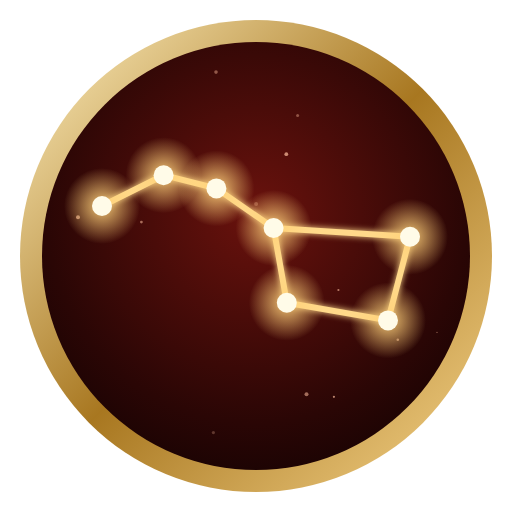
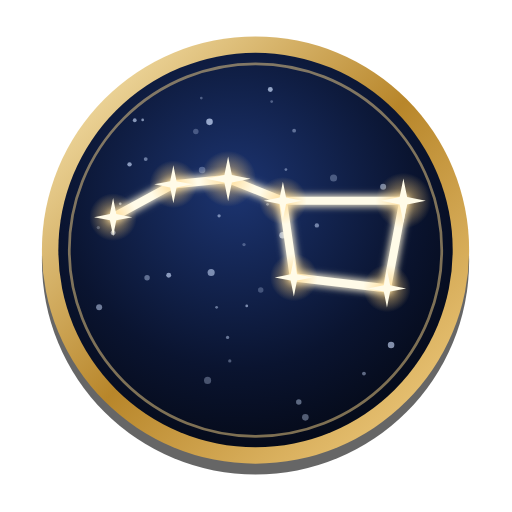
v0.47.1 : retour à l'icône d'origine (médaillon bleu)
Claude-Session: https://claude.ai/code/session_014s4g83MbSFVcN4jjfkWf8U

diff --git a/public/index.html b/public/index.html
@@ -3389,7 +3389,7 @@ Object.assign(UI.fr,{"stBtn": "Histoire", "stTitle": "Mode histoire", "stArc1": 
 Object.assign(UI.en,{"stBtn": "Story", "stTitle": "Story mode", "stArc1": "Arc 1: KING", "stLead": "Follow Kenshiro through the ravaged world, chapter after chapter. Each chapter has 3 stars to earn.", "stLocked": "Clear the previous chapter", "stPlay": "Fight", "stNext": "Next chapter", "stBackList": "Chapters", "stRetry": "Retry", "stObj": "Objectives", "stUnlock": "Unlocks", "stUnlockNote": "(from version 1.0)", "stYou": "You play", "stFoe": "Opponent", "stWave": "Wave {a}/{b}", "stWaveNext": "Next wave", "stWin": "Chapter cleared!", "stLose": "Defeat…", "stStars": "{n} star(s)", "stJoined": "Unlocked at 1.0: {who}", "stFat": "His Lights do nothing to him.", "stTrap": "An Ambush trap is already set against you.", "stArcDone": "Arc complete! More coming soon.", "stHow": "Story: 20 pts the first time a chapter is cleared, +10 pts per new star.", "w_story": "Story mode", "ach_story1": "The legend begins", "achd_story1": "Clear arc 1 of story mode", "ach_story27": "Seven stars… and more", "achd_story27": "Earn all 27 stars of arc 1", "st_t_king-0": "Prologue: the seven scars", "st_i_king-0": "One year before it all. Shin, of Nanto Koshūken, has sworn to tear Yuria away from Kenshiro. Tonight he takes the woman, and leaves him seven holes in his chest to remember.", "st_o_king-0": "\"I am Shin. Remember that name.\" Kenshiro lies in the dust, branded with seven scars shaped like the Big Dipper. He will survive. And he will come back.", "st_t_king-1": "The besieged village", "st_i_king-1": "A man collapses from hunger at the edge of a village. In a cell he meets little Lin and a thieving kid, Bat. Outside, Zeed's gang rides in to loot everything.", "st_o_king-1": "The raiders don't understand what's happening. \"You are already dead.\" Their bodies burst one after another. Zeed will want revenge.", "st_t_king-2": "Zeed", "st_i_king-2": "Zeed and his biker horde surround the village. He demands the water and the women. Kenshiro walks out alone to meet them, Lin and Bat hiding behind him.", "st_o_king-2": "Zeed wanted to strike first. His skull didn't hold. Lin finds her voice again, and Bat decides to follow this strange man. The journey begins.", "st_t_king-3": "Spade, the spearman", "st_i_king-3": "In the ruins of a city, men wear a badge: a spade. They are KING's soldiers. Their leader, Spade, amuses himself shooting at fugitives.", "st_o_king-3": "Spade swallowed his own bolt. Before dying, a name: KING. Kenshiro clenches his fist. The man with seven scars already knows who hides behind it.", "st_t_king-4": "Diamond and the captive village", "st_i_king-4": "A whole village is enslaved by Diamond, another of KING's suits. His guards first, then the master himself. Two fights in a row, no rest.", "st_o_king-4": "The last diamond has shattered. The villagers raise their heads. There is talk of a city to the south, Southern Cross, where KING keeps a woman prisoner.", "st_t_king-5": "Club", "st_i_king-5": "Club has prepared the ground: raiders hide everywhere, ready to fall on anyone who switches fighters. Fox, the sly one, prowls with him.", "st_o_king-5": "Club thought he had Kenshiro caught in his web. The threads snapped. Fox tried to flee into the desert. He didn't get far.", "st_t_king-6": "Heart, the colossus", "st_i_king-6": "Heart, KING's heart, is a mountain of fat. Light blows sink into his flesh without hurting him at all. And when he sees his own blood, he goes mad.", "st_o_king-6": "Fat protects from everything… except pressure points. Heart swells, swells again, and bursts. Southern Cross isn't far now.", "st_t_king-7": "Joker, the messenger", "st_i_king-7": "Joker, Shin's right-hand man, plays with his razor cards and vanishes before anyone can touch him. He has come to see what the man with seven scars can do.", "st_o_king-7": "\"I'd rather die than be your messenger.\" Joker won't go warn Shin. Kenshiro will do it himself.", "st_t_king-8": "Southern Cross: Shin", "st_i_king-8": "At the top of his city, Shin waits. He built it all for her, for Yuria. A year after the night of the seven scars, the two men face each other again.", "st_o_king-8": "Shin has lost. He won't let Kenshiro take his life: he throws himself from the top of his palace. Yuria was already gone. Kenshiro's journey has only just begun…", "sto_win": "Win the fight", "sto_rounds": "Win in {n} turns or fewer", "sto_hits": "Land {n} hits on the opponent", "sto_lost": "Lose {n} HP or fewer", "sto_lastUlt": "Finish with an ultimate", "sto_keep": "Keep more than {n}% of your HP", "sto_noRelay": "Make no tag", "sto_noTrap": "Trigger no enemy trap", "sto_noJoker": "Never let Joker draw", "sto_firstKo": "KO {who} first", "sto_killLvl": "Finish {who} with {lvl}", "stLvl2": "a Heavy", "stLvlU": "an ultimate"});
 Object.assign(UI.it,{"stBtn": "Storia", "stTitle": "Modalità storia", "stArc1": "Arco 1: KING", "stLead": "Segui Kenshiro nel mondo devastato, capitolo dopo capitolo. Ogni capitolo ha 3 stelle da guadagnare.", "stLocked": "Completa il capitolo precedente", "stPlay": "Combatti", "stNext": "Capitolo successivo", "stBackList": "Capitoli", "stRetry": "Riprova", "stObj": "Obiettivi", "stUnlock": "Sblocca", "stUnlockNote": "(dalla versione 1.0)", "stYou": "Giochi", "stFoe": "Avversario", "stWave": "Ondata {a}/{b}", "stWaveNext": "Ondata successiva", "stWin": "Capitolo completato!", "stLose": "Sconfitta…", "stStars": "{n} stella/e", "stJoined": "Sbloccato alla 1.0: {who}", "stFat": "I suoi Leggeri non gli fanno nulla.", "stTrap": "Una trappola Imboscata è già piazzata contro di te.", "stArcDone": "Arco completato! Il seguito arriva presto.", "stHow": "Storia: 20 pt la prima volta che si completa un capitolo, +10 pt per ogni nuova stella.", "w_story": "Modalità storia", "ach_story1": "La leggenda comincia", "achd_story1": "Completa l'arco 1 della modalità storia", "ach_story27": "Sette stelle… e oltre", "achd_story27": "Ottieni le 27 stelle dell'arco 1", "st_t_king-0": "Prologo: le sette cicatrici", "st_i_king-0": "Un anno prima di tutto. Shin, del Nanto Koshūken, ha giurato di strappare Yuria a Kenshiro. Stanotte si prende la donna, e gli lascia sette buchi nel petto come ricordo.", "st_o_king-0": "«Io sono Shin. Ricorda questo nome.» Kenshiro giace nella polvere, marchiato da sette cicatrici a forma di Orsa Maggiore. Sopravvivrà. E tornerà.", "st_t_king-1": "Il villaggio assediato", "st_i_king-1": "Un uomo crolla per la fame all'ingresso di un villaggio. In una cella incontra la piccola Lin e un ragazzino ladro, Bat. Fuori arriva la banda di Zeed per saccheggiare tutto.", "st_o_king-1": "I predoni non capiscono cosa succede. «Sei già morto.» I loro corpi esplodono uno dopo l'altro. Zeed vorrà vendetta.", "st_t_king-2": "Zeed", "st_i_king-2": "Zeed e la sua orda in moto circondano il villaggio. Pretende l'acqua e le donne. Kenshiro esce da solo ad affrontarli, con Lin e Bat nascosti dietro di lui.", "st_o_king-2": "Zeed voleva colpire per primo. Il suo cranio non ha retto. Lin ritrova la voce, e Bat decide di seguire quello strano uomo. Il viaggio comincia.", "st_t_king-3": "Spade, il lanciere", "st_i_king-3": "Tra le rovine di una città, degli uomini portano un'insegna: una picca. Sono i soldati di KING. Il loro capo, Spade, si diverte a tirare sui fuggiaschi.", "st_o_king-3": "Spade ha ingoiato il suo stesso dardo. Prima di morire, un nome: KING. Kenshiro stringe il pugno. L'uomo dalle sette cicatrici sa già chi si nasconde dietro.", "st_t_king-4": "Diamond e il villaggio prigioniero", "st_i_king-4": "Un intero villaggio è ridotto in schiavitù da Diamond, un altro seme di KING. Prima le sue guardie, poi il padrone. Due combattimenti di fila, senza riposo.", "st_o_king-4": "L'ultimo diamante si è spezzato. Gli abitanti rialzano la testa. Si parla di una città a sud, Southern Cross, dove KING tiene prigioniera una donna.", "st_t_king-5": "Club", "st_i_king-5": "Club ha preparato il terreno: predoni nascosti ovunque, pronti a piombare su chiunque cambi combattente. Fox, la volpe, si aggira con lui.", "st_o_king-5": "Club credeva di avere Kenshiro nella sua rete. I fili si sono spezzati. Fox ha cercato di fuggire nel deserto. Non è andato lontano.", "st_t_king-6": "Heart, il colosso", "st_i_king-6": "Heart, il cuore di KING, è una montagna di grasso. I colpi leggeri affondano nella sua carne senza fargli alcun male. E quando vede il suo sangue, impazzisce.", "st_o_king-6": "Il grasso protegge da tutto… tranne che dai punti vitali. Heart si gonfia, si gonfia ancora, ed esplode. Southern Cross non è più lontana.", "st_t_king-7": "Joker, il messaggero", "st_i_king-7": "Joker, l'uomo di fiducia di Shin, gioca con le sue carte taglienti e sparisce prima che lo si possa toccare. È venuto a vedere di cosa è capace l'uomo dalle sette cicatrici.", "st_o_king-7": "«Preferisco morire che farti da messaggero.» Joker non andrà ad avvertire Shin. Ci penserà Kenshiro stesso.", "st_t_king-8": "Southern Cross: Shin", "st_i_king-8": "In cima alla sua città, Shin aspetta. Ha costruito tutto per lei, per Yuria. Un anno dopo la notte delle sette cicatrici, i due uomini si affrontano di nuovo.", "st_o_king-8": "Shin ha perso. Non lascerà che Kenshiro gli dia la morte: si getta dalla cima del suo palazzo. Yuria non c'era più. Il viaggio di Kenshiro è appena cominciato…", "sto_win": "Vinci il combattimento", "sto_rounds": "Vinci in {n} turni o meno", "sto_hits": "Colpisci l'avversario {n} volte", "sto_lost": "Perdi al massimo {n} PV", "sto_lastUlt": "Finisci con una mossa finale", "sto_keep": "Conserva più del {n}% dei tuoi PV", "sto_noRelay": "Non fare nessun cambio", "sto_noTrap": "Non far scattare nessuna trappola nemica", "sto_noJoker": "Non lasciare mai pescare Joker", "sto_firstKo": "Metti KO {who} per primo", "sto_killLvl": "Finisci {who} con {lvl}", "stLvl2": "un Pesante", "stLvlU": "una mossa finale"});
 const CHANGELOG=[
- {v:"0.47.0",d:"2026-10-05",fr:["Nouvelle icône du jeu : la Grande Ourse dans un médaillon doré"],en:["New game icon: the Big Dipper in a golden medallion"],it:["Nuova icona del gioco: il Grande Carro in un medaglione dorato"],ja:["新しいゲームアイコン：金のメダリオンに北斗七星"]},
+ {v:"0.47.1",d:"2026-10-05",fr:["Retour de l'icône d'origine (médaillon bleu)"],en:["Original icon is back (blue medallion)"],it:["Torna l'icona originale (medaglione blu)"],ja:["元のアイコン（青いメダリオン）に戻しました"]},
  {v:"0.46.1",d:"2026-10-05",fr:["Fiche du perso : texte dans un encadré transparent, plus lisible"],en:["Fighter card: text in a see-through box, easier to read"],it:["Scheda del combattente: testo in un riquadro trasparente, più leggibile"],ja:["拳士カード：説明文を半透明の枠で読みやすく"]},
  {v:"0.46.0",d:"2026-10-05",fr:["Écran d'équipe : bouton plus clair (« Choisis 2 persos »)","Les petites écoles s'affichent côte à côte, moins de défilement","Fiche du perso : le texte prend toute la largeur","PC : l'équipe reste visible sans défiler"],en:["Team screen: clearer button (\"Pick 2 fighters\")","Small schools are shown side by side, less scrolling","Fighter card: text uses the full width","PC: your team stays visible without scrolling"],it:["Schermata squadra: pulsante più chiaro («Scegli 2 combattenti»)","Le scuole piccole sono affiancate, meno scorrimento","Scheda del combattente: il testo usa tutta la larghezza","PC: la squadra resta visibile senza scorrere"],ja:["チーム画面：ボタンを分かりやすく","小さな流派を横並びに","拳士カードの説明文を全幅に","PC：スクロールなしでチームが見える"]},
  {v:"0.45.1",d:"2026-10-05",fr:["Drapeau japonais : le rond rouge n'est plus déformé"],en:["Japanese flag: the red disc is no longer stretched"],it:["Bandiera giapponese: il cerchio rosso non è più deformato"],ja:["日本の国旗：赤い円が歪まなくなりました"]},

diff --git a/public/sw.js b/public/sw.js
@@ -1,5 +1,5 @@
 // Battle of the Century : cache hors ligne des images, sons et polices (la page et l'API restent toujours à jour)
-const VERSION = "0.47.0";
+const VERSION = "0.47.1";
 const CACHE = "boc2-" + VERSION;   // boc2 : on repart de zéro (anciennes images restées dans le cache du navigateur)
 const PRECACHE = ["./", "assets/icon-192.png", "assets/bg-city.webp", "assets/bg-ruins.webp"];
 

diff --git a/CHANGELOG.md b/CHANGELOG.md
@@ -2,9 +2,9 @@
 
 Généré depuis le jeu (`CHANGELOG` dans public/index.html). Visible en jeu via le bouton de version.
 
-## v0.47.0 — 2026-10-05
+## v0.47.1 — 2026-10-05
 
-- Nouvelle icône du jeu : la Grande Ourse dans un médaillon doré
+- Retour de l'icône d'origine (médaillon bleu)
 
 ## v0.46.1 — 2026-10-05
 
